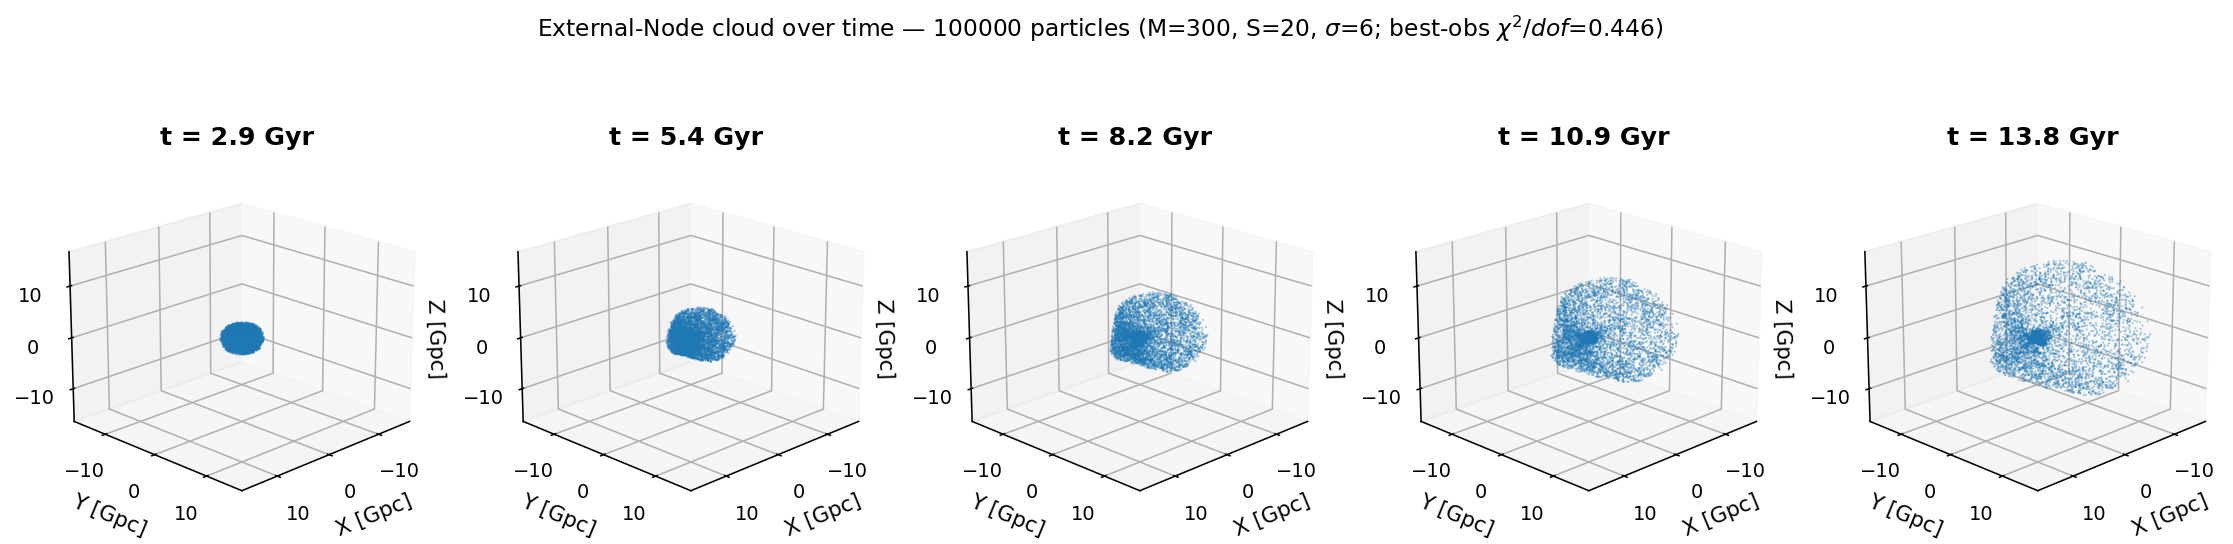
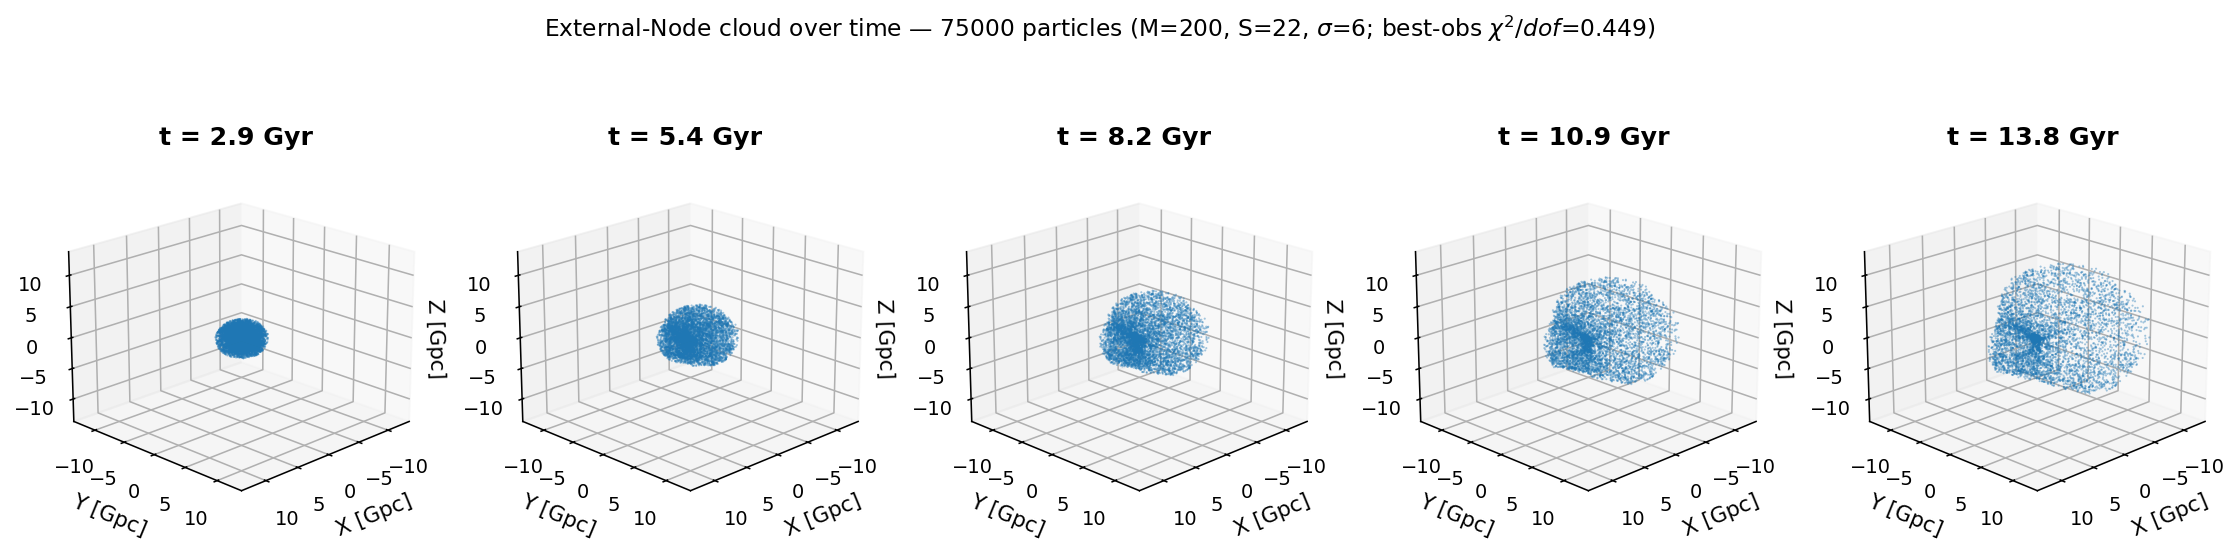
paper(v2): use the more-uniform M200/S22/sig6 (75k) cloud for fig6 (no big central mass)
The M300/sigma6 100k cloud had a dense central concentration (core 0.38) - visually reads as a
"big mass inside". Swapped fig6 to the least-concentrated hero cloud, M200/S22/sigma6 at 75k
particles (core 0.25, R50/R90 0.50) - a rounder, clearly-expanding cloud that still matches
Pantheon+ (best-observer chi2/dof 0.449). Lower external mass -> weaker traceless tidal
compression -> more uniform cloud. Caption + the sec:hires reference updated to the new config.

diff --git a/docs/VirializedMetaStructure.tex b/docs/VirializedMetaStructure.tex
@@ -327,7 +327,7 @@ Three honest conclusions follow. \textbf{The model produces effective dark energ
 
 The $0.501$ result above uses a \emph{uniform}-mass node shell and the cloud's central observer. Two physically-motivated refinements sharpen it. First, we replace the uniform shell with a force-balanced \textbf{virialized lattice carrying a wide node-mass function} (a log-normal mass distribution, mass-segregated so the most massive nodes sit furthest out), modelling a relaxed meta-structure rather than equal-mass points; the wide mass function avoids the small-$S$ cloud collapse and reaches the genuinely accelerating regime. Second, and more importantly, we drop the assumption that we sit at the cloud's centre. The probability of occupying the exact centre is negligible, and the model predicts a \emph{position-dependent} expansion history; the supernova data localise us to whichever vantage they match. We therefore treat every particle as a candidate observer (its $\mu(z)$ built from the local growth of its own neighbourhood) and report the \textbf{best-matching observer}, alongside the \emph{fraction} of vantages below each reference so the genericity of a good vantage stays visible.
 
-With these refinements the from-simulation fit improves to $\chi^2/\mathrm{dof} \approx 0.44$ --- essentially $\Lambda$CDM ($0.436$) --- and, crucially, this is reached by \textbf{many distinct configurations}: a fine scan over $M$, $S$, and the mass-function width all land on Pantheon$+$ at $\chi^2/\mathrm{dof} \approx 0.44$--$0.45$ and far above the Einstein--de~Sitter null (Figure~\ref{fig:hires-multiplicity}). A Pantheon-matching vantage is thus a generic, not a fine-tuned, feature of the model. Figure~\ref{fig:hires-cloud} shows one such configuration evolved at $10^5$ particles.
+With these refinements the from-simulation fit improves to $\chi^2/\mathrm{dof} \approx 0.44$ --- essentially $\Lambda$CDM ($0.436$) --- and, crucially, this is reached by \textbf{many distinct configurations}: a fine scan over $M$, $S$, and the mass-function width all land on Pantheon$+$ at $\chi^2/\mathrm{dof} \approx 0.44$--$0.45$ and far above the Einstein--de~Sitter null (Figure~\ref{fig:hires-multiplicity}). A Pantheon-matching vantage is thus a generic, not a fine-tuned, feature of the model. Figure~\ref{fig:hires-cloud} shows one such configuration evolved at high resolution.
 
 \begin{figure}[htbp]
     \centering
@@ -339,7 +339,7 @@ With these refinements the from-simulation fit improves to $\chi^2/\mathrm{dof} 
 \begin{figure}[htbp]
     \centering
     \includegraphics[width=1.0\linewidth]{fig6_hero_100k_cloud_66fb244.png}
-    \caption{The observable cloud ($10^5$ tracer particles; $M=300\,M_{obs}$, $S=20$ Gpc, virialized lattice) evolving from $t=2.9$ to $13.8$ Gyr, centred on the cloud and shown at a fixed common scale so the growth is visible (the rare runaway tail is omitted). The wide node-mass function imprints the mild anisotropy and clustering that the central diagnostics smooth over.}
+    \caption{The observable cloud ($7.5\times10^4$ tracer particles; $M=200\,M_{obs}$, $S=22$ Gpc, virialized lattice, $\sigma=6$; best-observer $\chi^2/\mathrm{dof}=0.449$) evolving from $t=2.9$ to $13.8$ Gyr, centred on the cloud and shown at a fixed common scale so the growth is visible (the rare runaway tail is omitted). The tidal field imprints the mild anisotropy and clustering that the central diagnostics smooth over.}
 \label{fig:hires-cloud}
 \end{figure}
 
